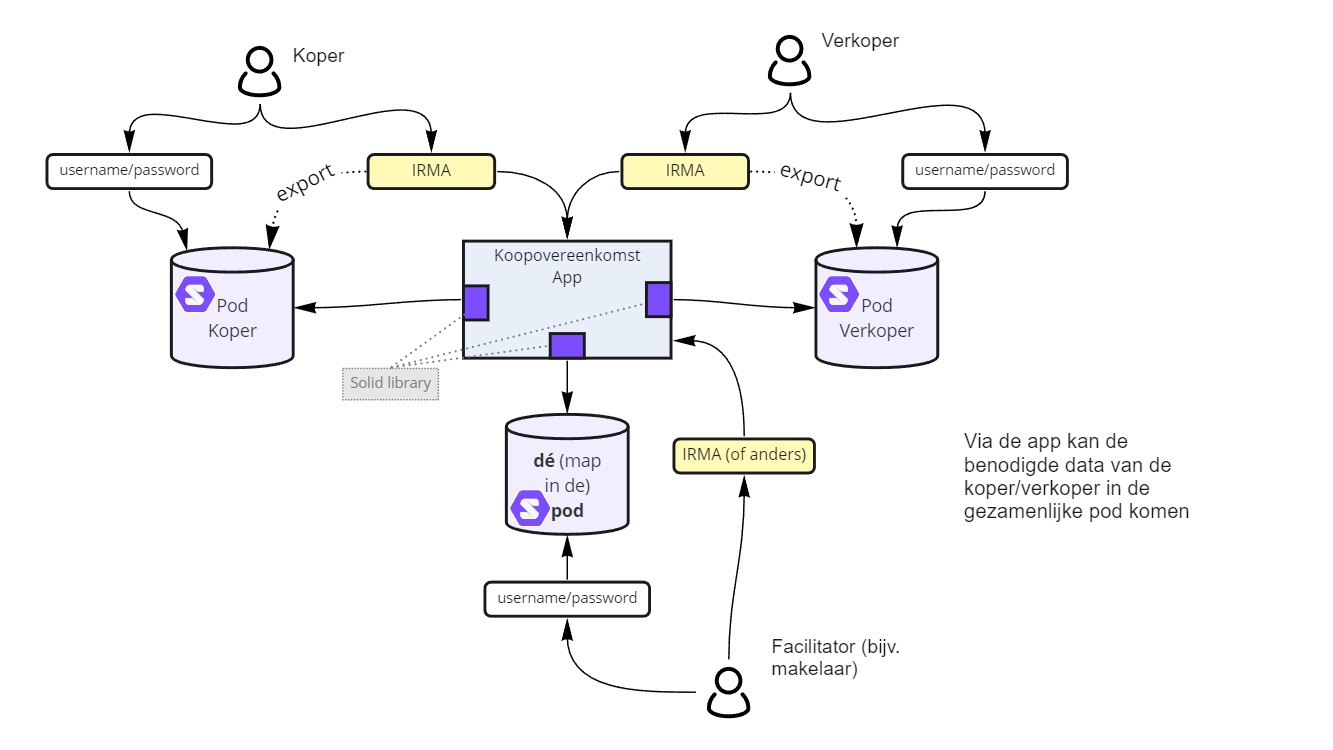
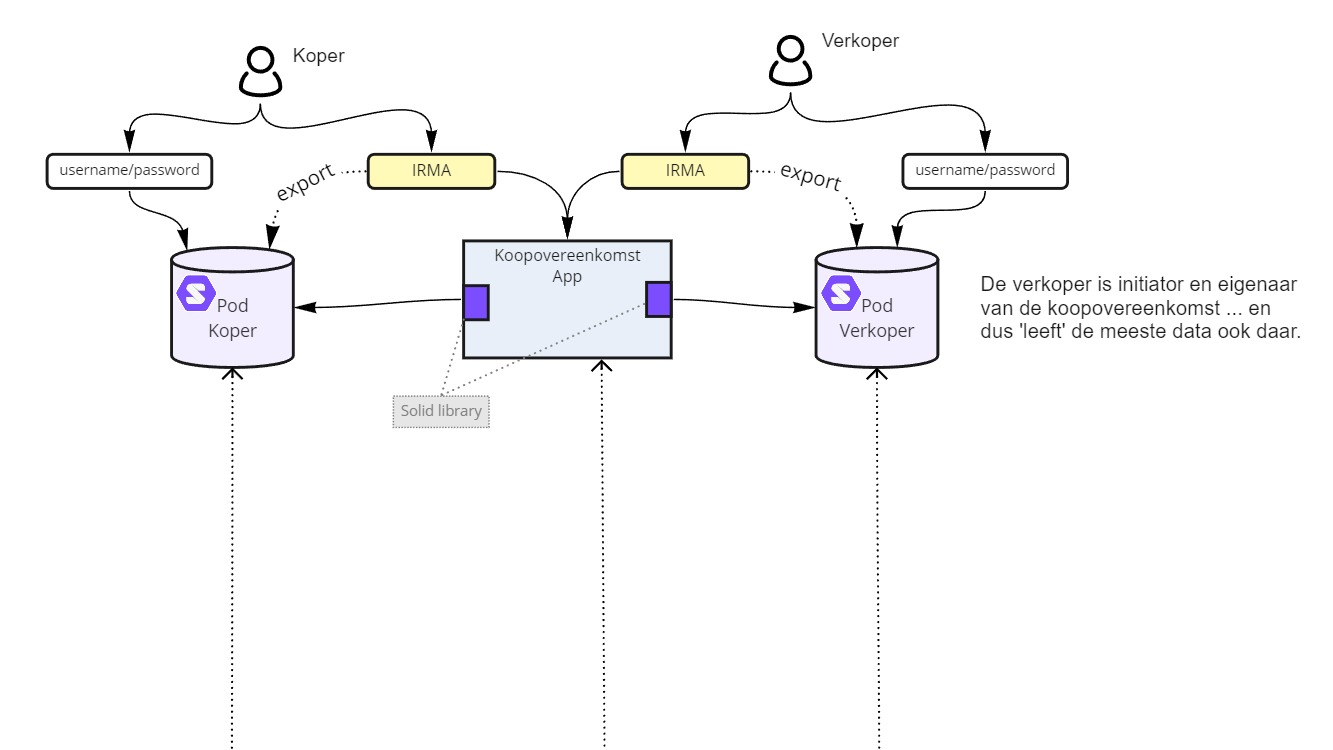
bijgewerkte sequence diagram zonder makelaar

diff --git a/README.md b/README.md
@@ -1,6 +1,6 @@
 # SOLID Quest
 
-Our journey on [SOLID pods](https://solidproject.org/) ... towards the goal of creating a [Demonstrator Koopovereenkomst Solid App](demonstrator-koopovereenkomst-solid-app/).
+Our journey on [SOLID pods](https://solidproject.org/) ... towards the goal of creating a [Demonstrator Koopovereenkomst Solid App](#demonstrator-koopovereenkomst-solid-app).
 
 [Demo](https://marcvanandel.github.io/solid-quest/)
 
@@ -20,7 +20,7 @@ Our journey on [SOLID pods](https://solidproject.org/) ... towards the goal of c
 
 ## Demonstrator Koopovereenkomst Solid App
 
-Deze repo bevat (een eerste opzet voor) de **Demonstrator Koopovereenkomst Solid App**. Deze is bedoeld om kennis op te doen van hoe Solid PODs werken en hoe deze te gebruiken. In deze demonstator wordt een vereenvoudigde koopovereenkomst gesloten tussen Verkoper Vera en Koper Koos. Makelaar Mike faciliteert het proces en heeft de verantwoordelijkheid om het proces te initiëren, info toe te voegen die telefonisch of mondeling tussen verkoper en koper tot stand komt.
+Deze repo bevat (een eerste opzet voor) de **Demonstrator Koopovereenkomst Solid App**. Deze is bedoeld om kennis op te doen van hoe Solid PODs werken en hoe deze te gebruiken. In deze demonstator wordt een vereenvoudigde koopovereenkomst gesloten tussen Verkoper Vera en Koper Koos. In een eerste iteratie hadden wij bedacht dat Makelaar Mike het proces faciliteert en de verantwoordelijkheid heeft om het proces te initiëren, info toe te voegen die telefonisch of mondeling tussen verkoper en koper tot stand komt. Al werkende zijn we gekomen tot het punt dat een Solid POD vooral alle eigen data zou moeten vasthouden ... en dus _niet_ in een externe POD. Aangezien Verkoper Vera haar huis verkoopt, is zij ook initiator en 'eigenaar' van de koopovereenkomst. De eerste en meeste data komt dan ook in haar POD terecht. Uiteraard zou de data van Koper Koos vooral in zijn POD terecht moeten komen en een links naar elkaars PODs behoort tot beider data.
 
 [Live Demo](https://marcvanandel.github.io/solid-quest/)
 
@@ -34,10 +34,9 @@ Voor de demonstrator is alleen een WebApp / UserInterface benodigd en geen backe
 
 Het proces dat doorlopen wordt, is basaal als volgt:
 
-1. Makelaar Mike initieert een nieuwe koopovereenkomst in de [Koopovereenkomst App]. Om dat te kunnen doen faciliteert hij (als makelaarskantoor) met een Solid POD tbv opslag en verzameling van deze koopovereenkomst: de POD Makelaarskantoor
-1. Verkoper Vera ontvangt een link waarmee zij haar gegevens kan invullen in de koopovereenkomst en haar eigen Solid POD kan koppelen. Door deze link krijgt zij automatisch de rol van 'verkoper'
-1. Koper Koos ontvangen een link waarmee hij zijn gegevens kan invullen in de koopovereenkomst en zijn eigen Solid POD kan koppelen. Door deze link krijgt hij automatisch de rol 'koper'
-1. Als alles compleet is, kan Makelaar Mike de koopovereenkomst 'bevriezen' en een 'vastgestelde koopovereenkomst' genereren. In deze stap worden de gebruikte gegevens opgehaald en opgeslagen in de Solid POD van het makelaarskantoor omdat niet kan worden gegarandeerd dan één van de partijen tussentijds nog wijzigingen in zijn/haar POD doet.
+1. Verkoper Vera initieert een nieuwe koopovereenkomst in de [Koopovereenkomst App]. Zij vult de koopovereenkomst met de gegevens van haar huis en dat wordt in haar eigen POD opgeslagen: POD Verkoper Vera
+1. Koper Koos ontvangt een link van Verkoper Vera waarmee hij zijn gegevens kan invullen in de koopovereenkomst en zijn eigen Solid POD kan koppelen. Door deze link krijgt hij automatisch de rol 'koper'
+1. Als alles compleet is, kan Verkoper Vera de koopovereenkomst 'bevriezen' en een 'vastgestelde koopovereenkomst' genereren. In deze stap worden de gebruikte gegevens opgehaald en opgeslagen in de Solid POD van Verkoper Vera zodat een expliciete versie ondertekend kan worden.
 1. Als elke partij getekend heeft, kan de koopovereenkomst afgerond worden. Dat betekent dat elke partij een specifieke 'afschrift' ontvangen, welke opgeslagen wordt in zijn/haar POD. De complete koopovereenkomst zou dan gedeeld moeten worden met de notaris tbv de uiteindelijke levering en kan optioneel ingeschreven worden in het Openbaar Register.
 
 Bovenstaande is in detail uitgewerkt in een [Sequence Diagram](https://raw.githubusercontent.com/marcvanandel/solid-quest/main/koopovereenkomst-sequencediagram.png) (gemaakt mbv [SequenceDiagram.org](https://sequencediagram.org/) en [koopovereenkomst-sequencediagram.txt](koopovereenkomst-sequencediagram.txt))
